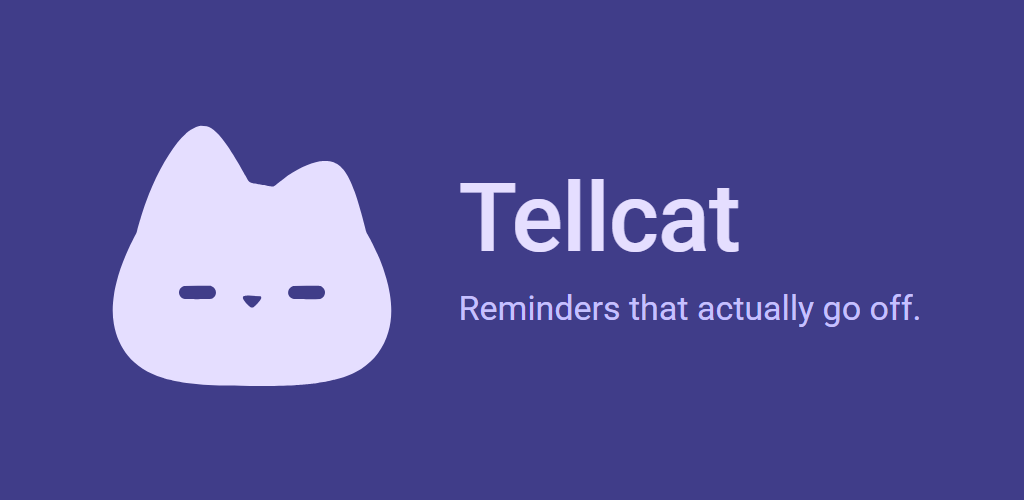
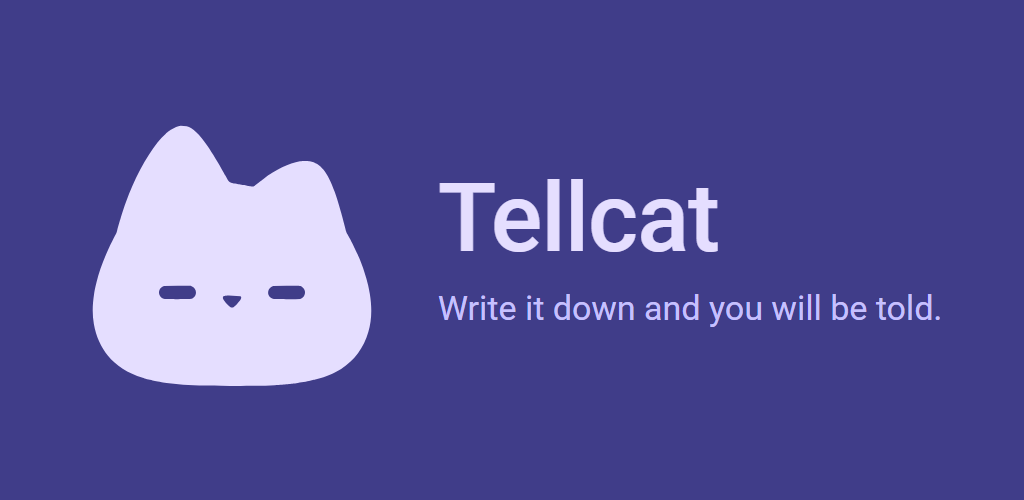
tellcat.app is a landing page with a way to join the test
The home page was one line. It now carries the short description, four
of the listing's screenshots, four points taken from the listing copy,
and "Join the test", which emails hello@tellcat.app until the closed
test has an opt-in link. Google needs 12 testers opted in for 14 days
before release, and they need somewhere to be sent. Plain HTML, no
scripts, no analytics, no cookies. Colours are set for light and dark
rather than left to the browser, which drew white text on white in one
renderer.

The feature graphic and the old home line said "Reminders that actually
go off", which docs/play-listing.md rejects as a swipe at the category.
Both now use the short description's "Write it down and you will be
told."

Changed region(s): [[0.0625, 0.24, 0.9375, 0.78], [0.4062, 0.36, 0.7188, 0.51]]

diff --git a/tools/build_site.py b/tools/build_site.py
@@ -31,15 +31,66 @@ for line in src.split('\n'):
 flush()
 STYLE = """<meta charset="utf-8"><meta name="viewport" content="width=device-width, initial-scale=1">
 <style>
-:root { color-scheme: light dark; --accent: #4F5DFF; }
-body { font: 17px/1.6 system-ui, -apple-system, "Segoe UI", Roboto, sans-serif; max-width: 40rem; margin: 3rem auto; padding: 0 1.25rem; }
+:root { color-scheme: light dark; --accent: #4F5DFF; --bg: #FBF8FF; --fg: #1B1B21; }
+html { background: var(--bg); color: var(--fg); }
+body { font: 17px/1.6 system-ui, -apple-system, "Segoe UI", Roboto, sans-serif; max-width: 46rem; margin: 3rem auto; padding: 0 1.25rem; }
 h1 { font-size: 1.9rem; line-height: 1.2; } h2 { font-size: 1.2rem; margin-top: 2rem; }
-a { color: var(--accent); } @media (prefers-color-scheme: dark) { :root { --accent: #A8B0FF; } }
+a { color: var(--accent); } @media (prefers-color-scheme: dark) { :root { --accent: #A8B0FF; --bg: #131318; --fg: #E4E1E9; } }
 footer { margin-top: 3rem; font-size: .9rem; opacity: .7; }
+.hero { text-align: center; margin-bottom: 2rem; } .hero h1 { margin: .5rem 0 0; font-size: 2.6rem; }
+.hero img { border-radius: 22%; } .lead { font-size: 1.35rem; margin: .4rem 0; }
+.small { font-size: .9rem; opacity: .75; }
+.button { display: inline-block; background: var(--accent); color: #fff; padding: .7rem 1.4rem; border-radius: 999px; text-decoration: none; font-weight: 500; }
+@media (prefers-color-scheme: dark) { .button { color: #1b1b2f; } }
+.shots { display: flex; gap: 12px; overflow-x: auto; padding: .5rem 0 1rem; scroll-snap-type: x mandatory; }
+.shots img { flex: 0 0 auto; width: 220px; height: auto; border-radius: 16px; box-shadow: 0 1px 6px rgba(0,0,0,.18); scroll-snap-align: start; }
+@media (min-width: 760px) { .shots img { width: calc((100% - 36px) / 4); } }
 </style>"""
 page = lambda title, body: f'<!doctype html><html lang="en"><head><title>{title}</title>{STYLE}</head><body>{body}<footer><a href="/">Tellcat</a> · <a href="/privacy">Privacy</a> · <a href="mailto:hello@tellcat.app">hello@tellcat.app</a></footer></body></html>\n'
 import os; os.makedirs(sys.argv[2] + '/privacy', exist_ok=True)
 open(sys.argv[2] + '/privacy/index.html', 'w', encoding='utf-8').write(page('Privacy policy · Tellcat', '\n'.join(out)))
-home = ('<h1>Tellcat</h1><p>A calm task app for Android whose reminders actually go off. '
-        'Free, no account, no subscription.</p><p>Coming soon to Google Play.</p>')
-open(sys.argv[2] + '/index.html', 'w', encoding='utf-8').write(page('Tellcat', home))
+# The home page. Copy is taken from docs/play-listing.md, so the site and the
+# store page never disagree; the images are the listing's own screenshots.
+import os
+from PIL import Image
+STORE = os.path.join(os.path.dirname(os.path.abspath(__file__)), '..', 'docs', 'store')
+os.makedirs(sys.argv[2] + '/img', exist_ok=True)
+SHOTS = [('screenshot-1-today.png', 'Today, with an overdue task and a reminder at 6 PM'),
+         ('screenshot-2-reminder.png', 'A reminder arriving, with Done and Snooze'),
+         ('screenshot-3-quick-add.png', 'Quick Add reading "tomorrow 6pm" as it is typed'),
+         ('screenshot-4-reminder-health.png', 'Reminder health, with every check passing')]
+figures = []
+for name, alt in SHOTS:
+    out = name.replace('.png', '.jpg')
+    Image.open(os.path.join(STORE, name)).convert('RGB').resize((540, 960), Image.LANCZOS)         .save(sys.argv[2] + '/img/' + out, quality=85, optimize=True)
+    figures.append(f'<img src="/img/{out}" alt="{html.escape(alt)}" width="270" height="480" loading="lazy">')
+Image.open(os.path.join(STORE, 'icon-512.png')).resize((192, 192), Image.LANCZOS).save(sys.argv[2] + '/img/icon.png')
+POINTS = [
+    ('Reminders built like alarms',
+     'Every reminder is scheduled as an exact alarm. It survives the app closed, the screen off, '
+     'the device restarted, and the clock or time zone changed. Snooze it or complete the task '
+     'straight from the notification.'),
+    ('A screen that checks the reminders for you',
+     'Reminder health checks notification access, exact alarms and battery restrictions, sends a '
+     'test reminder when you ask, and tells you if a real one arrived late.'),
+    ('Type it the way you would say it',
+     '"Call mum tomorrow 6pm" schedules for tomorrow and sets a 6pm reminder. What was understood '
+     'is marked before you save.'),
+    ('Your data stays on your phone',
+     'No account, no sign-up, no servers. Tellcat does not request internet permission, so the app '
+     'itself sends nothing anywhere.'),
+]
+points = ''.join(f'<h2>{html.escape(t)}</h2><p>{html.escape(b)}</p>' for t, b in POINTS)
+JOIN = 'mailto:hello@tellcat.app?subject=Join%20the%20Tellcat%20test'
+home = (
+    '<header class="hero"><img src="/img/icon.png" alt="" width="96" height="96">'
+    '<h1>Tellcat</h1><p class="lead">Write it down and you will be told.</p>'
+    '<p>A task app for Android, free, with no account, no subscription and no ads.</p>'
+    f'<p><a class="button" href="{JOIN}">Join the test</a></p>'
+    '<p class="small">Tellcat is in a closed test on Google Play before its release. '
+    'Email to be added, and you will get the link.</p></header>'
+    f'<div class="shots">{"".join(figures)}</div>'
+    f'{points}'
+    f'<p><a class="button" href="{JOIN}">Join the test</a></p>'
+)
+open(sys.argv[2] + '/index.html', 'w', encoding='utf-8').write(page('Tellcat · Write it down and you will be told', home))

diff --git a/ROADMAP.md b/ROADMAP.md
@@ -55,6 +55,12 @@ Still to do for 1.0:
   shot was skipped. Shooting them
   found a bug: with Dark chosen on a light phone the status bar kept dark
   icons on the dark app. The bars now follow the app's theme
+- ~~a landing page~~ done 2026-10-12: tellcat.app shows the short description,
+  four screenshots, four points from the listing copy and "Join the test",
+  which emails hello@tellcat.app until the closed-test link exists. Built by
+  `tools/build_site.py`. The feature graphic and the old home line said
+  "actually go off", which the listing doc rejects as a swipe at the category;
+  both now use "Write it down and you will be told."
 - Data safety, content rating and target audience, entered once Create app
   unlocks
 - moving the owner's phone: Export from Catimo, change the file's marker to

diff --git a/docs/play-listing.md b/docs/play-listing.md
@@ -166,7 +166,7 @@ from a hand-written backup through the app's own Restore.
 | Asset | Spec | Status |
 | --- | --- | --- |
 | App icon | 512 x 512 PNG, 32-bit | `icon-512.png`, the launcher icon's layers rendered at the size a launcher shows |
-| Feature graphic | 1024 x 500 PNG or JPEG, no alpha | `feature-1024x500.png`: the cat mark, "Tellcat" and "Reminders that actually go off." |
+| Feature graphic | 1024 x 500 PNG or JPEG, no alpha | `feature-1024x500.png`: the cat mark, "Tellcat" and the short description's first sentence, "Write it down and you will be told." |
 | Phone screenshots | 2 to 8, 9:16, 1080 x 1920 or larger, no alpha | `screenshot-1` to `screenshot-8`, in the shot-list order below |
 
 ### Screenshot shot list
